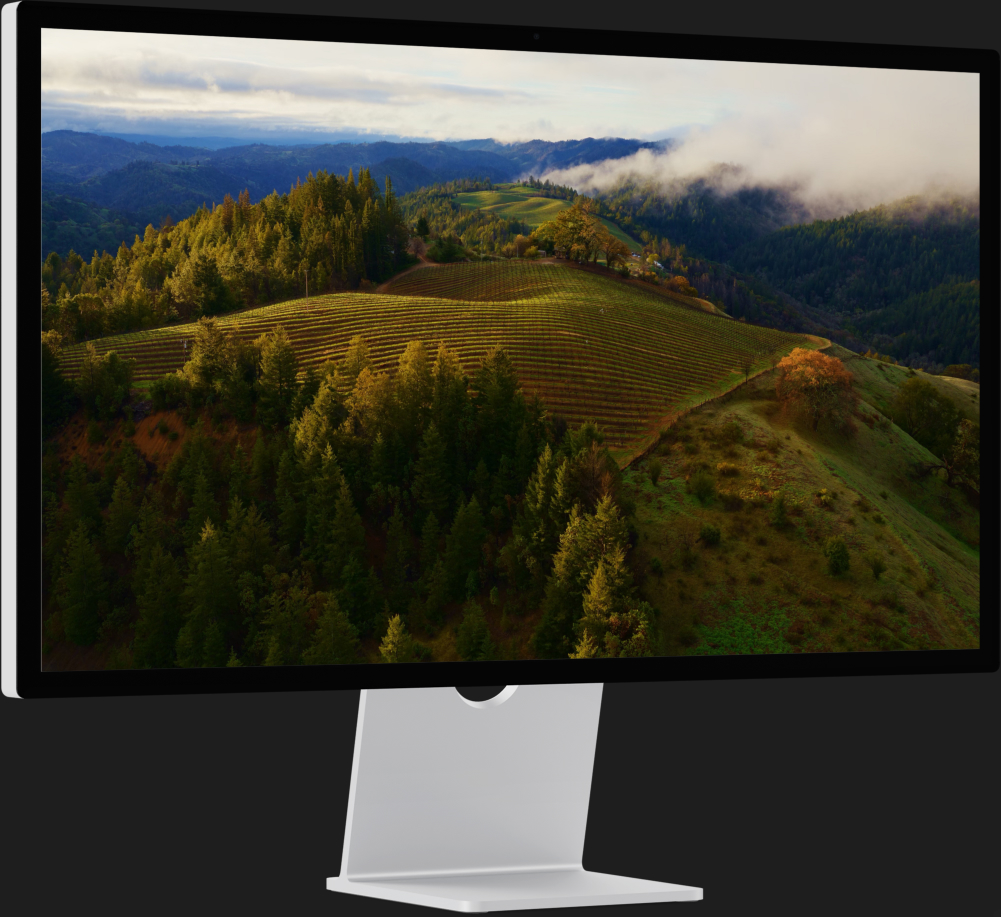
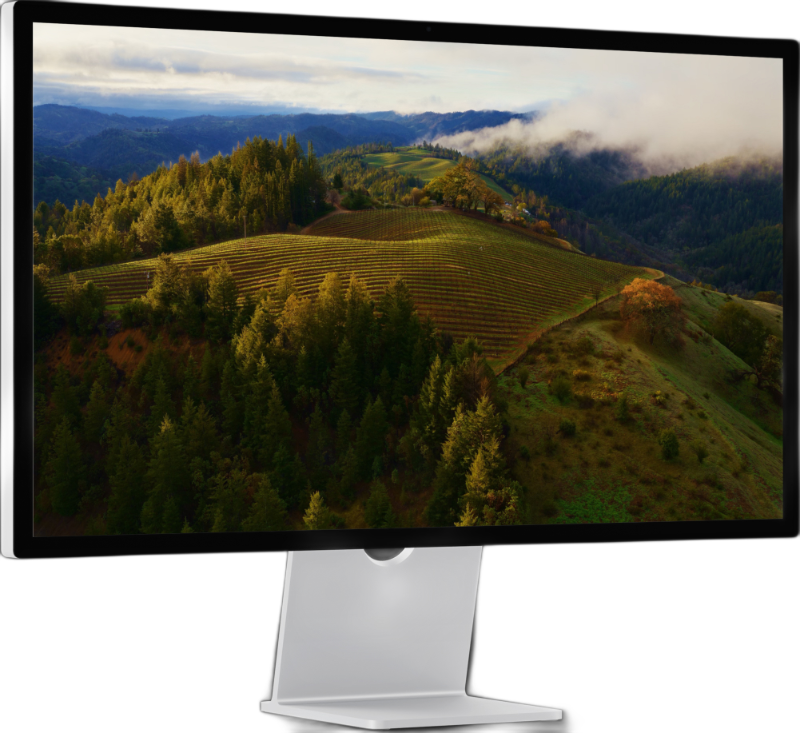
fix border styling

diff --git a/components/Work.js b/components/Work.js
@@ -3,11 +3,11 @@ import { project1, project2, project3, project4 } from '@/constants';
 
 const Work = () => {
   return (
-    <section id="work" className="card-wrapper w-full flex flex-col items-center md:gap-40 gap-2 relative lg:top-[70vh] top-[60vh] px-2">
-      <WorkCard width={1200} icon={project1.icon} label={project1.label} top={84} title={project1.title} backgroundColor="#1E1D1C" description={project1.description} image={project1.image} liveLink={project1.liveLink} githubLink={project1.githubLink}/>
-      <WorkCard width={1220} icon={project2.icon} label={project2.label} top={124} title={project2.title} backgroundColor="#222120" description={project2.description} image={project2.image} liveLink={project2.liveLink} githubLink={project2.githubLink}/>
+    <section id="work" className="card-wrapper w-full flex flex-col items-center md:gap-40 gap-10 relative lg:top-[70vh] top-[60vh] px-2">
+      <WorkCard width={1200} icon={project1.icon} label={project1.label} top={84} title={project1.title} backgroundColor="#272524" description={project1.description} image={project1.image} liveLink={project1.liveLink} githubLink={project1.githubLink}/>
+      <WorkCard width={1220} icon={project2.icon} label={project2.label} top={124} title={project2.title} backgroundColor="#1D1D1D" description={project2.description} image={project2.image} liveLink={project2.liveLink} githubLink={project2.githubLink}/>
       <WorkCard width={1240} icon={project3.icon} label={project3.label} top={164} title={project3.title} backgroundColor="#272524" description={project3.description} image={project3.image} liveLink={project3.liveLink} githubLink={project3.githubLink}/>
-      <WorkCard width={1260} icon={project4.icon} label={project4.label} top={204} title={project4.title} backgroundColor="#2D2B2A" description={project4.description} image={project4.image} liveLink={project4.liveLink} githubLink={project4.githubLink}/>
+      <WorkCard width={1260} icon={project4.icon} label={project4.label} top={204} title={project4.title} backgroundColor="#1D1D1D" description={project4.description} image={project4.image} liveLink={project4.liveLink} githubLink={project4.githubLink}/>
     </section>
   );
 };

diff --git a/components/WorkCard.js b/components/WorkCard.js
@@ -15,7 +15,7 @@ const WorkCard = ({
 }) => {
   return (
     <div
-      className={`card md:sticky text-white border flex flex-col justify-between items-center border-zinc-800/80 w-full rounded-[4rem] min-h-[80vh] sm:px-8 lg:px-20 sm:py-8 p-6 text-center`}
+      className={`card md:sticky text-white border flex flex-col justify-between items-center border-zinc-800 w-full rounded-[4rem] min-h-[80vh] sm:px-8 lg:px-20 sm:py-8 p-6 text-center`}
       style={{
         maxWidth: width,
         top: top ? top : "",
@@ -40,14 +40,14 @@ const WorkCard = ({
             <a
               href={githubLink}
               target="_blank"
-              className="max-md:w-full py-5 px-16  bg-zinc-800/40 hover:bg-zinc-800/50 font-medium rounded-full text-[#adb0b9]"
+              className="max-md:w-full py-5 px-16 border border-zinc-700/50 font-medium rounded-full text-[#adb0b9] hover:bg-zinc-800/50"
             >
               Github
             </a>
             <a
               href={liveLink}
               target="_blank"
-              className="max-md:w-full py-5 px-16  rounded-full font-medium text-[#adb0b9] border border-zinc-700/50 hover:bg-zinc-800/20"
+              className="max-md:w-full py-5 px-16 rounded-full font-medium text-[#adb0b9] border border-zinc-700/50 hover:bg-zinc-800/50"
             >
               Visit
             </a>

diff --git a/components/Footer.js b/components/Footer.js
@@ -9,7 +9,7 @@ const Footer = () => {
   const pathname = usePathname();
   return (
     <div className="w-full px-2">
-      <div className="w-full max-w-[1300px] min-h-[380px] flex flex-col gap-8 items-center justify-between bg-[#1E1D1C] border border-zinc-800/50 mx-auto rounded-t-[2rem] py-16 sm:px-6 px-4">
+      <div className="w-full max-w-[1300px] min-h-[380px] flex flex-col gap-8 items-center justify-between bg-[#1E1D1C] border border-zinc-800 mx-auto rounded-t-[2rem] py-16 sm:px-6 px-4">
         <h2 className="text-white text-center lg:text-3xl md:text-2xl sm:text-xl">
           👋 Thanks for stopping by! Here is more of me if you are interested :
           {")"}

diff --git a/constants/index.js b/constants/index.js
@@ -1,5 +1,5 @@
 import ImageFlux from '@/public/images/ImageFlux.png';
-import Desktop from '@/public/images/Desktop.jpg';
+import Desktop from '@/public/images/Desktop2.jpg';
 import ImageFluxIcon from '@/public/images/ImageFlux-icon.png';
 import mbstu from "@/public/images/mbstu.png";
 
